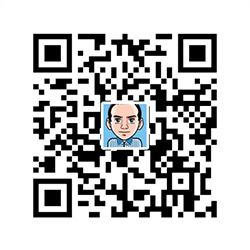
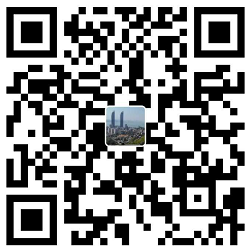
更换打赏二维码

diff --git a/_layouts/post.html b/_layouts/post.html
@@ -32,7 +32,7 @@ layout: default
 
 </div>
 
-<iframe src="https://{{enforce_ssl}}/simple/" style="overflow-x:hidden;overflow-y:hidden; border:0xp none #fff; min-height:240px; width:100%;"  frameborder="0" scrolling="no"></iframe>
+<iframe src="https://tzou24.github.io/simple/" style="overflow-x:hidden;overflow-y:hidden; border:0xp none #fff; min-height:240px; width:100%;"  frameborder="0" scrolling="no"></iframe>
 
 <noscript>Please enable JavaScript to view the comment form powered by <a href="https://commentit.io/">Comm(ent|it)</a></noscript>
 <div id="commentit"></div>

diff --git a/simple/index.html b/simple/index.html
@@ -17,10 +17,10 @@
 		<li id="AliPay">AliPay</li>
 		<li id="WeChat">WeChat</li>
 	</ul>
-	<div id="QRBox" class="pos-f left-100">
+	<!-- <div id="QRBox" class="pos-f left-100">
 		<div id="MainBox"></div>
-	</div>
+	</div> -->
 	<!-- Bitcoin 账号 -->
-	<input id="btc-key" type="text" value="3QboL2k5HfKjKDrEYtQAKubWCjx9CX7i8f" readonly="readonly">
+	<!-- <input id="btc-key" type="text" value="3QboL2k5HfKjKDrEYtQAKubWCjx9CX7i8f" readonly="readonly"> -->
 </body>
 </html>

diff --git a/simple/style.css b/simple/style.css
@@ -60,13 +60,13 @@ a{
 	background-color: #fff;
 	border: 1px solid #ddd;
 	border-radius: 6px;
-	width: 299px;
+	width: 300px;
 	height: 28px;
 	float: left;
 	z-index: 1;
 }
 #donateBox li {
-	width: 74px;
+	width: 150px;
 	float: left;
 	text-align: center;
 	border-left: 1px solid #ddd;

diff --git a/b_about.md b/b_about.md
@@ -7,20 +7,11 @@ permalink: /about/
 
 ***
 
-这里是 Wentasy 的个人站点。
+这里是 abina 的随想录。
 
-目前就职于三七互娱，担任 DBA。
 
-热爱 Google，热爱互联网，热爱科技。推崇逻辑和理性，用数据说话，用理工科思维理解世界。
-
-懂点音乐，热爱古典、摇滚与民谣。爱好阅读，涉猎广泛，爱实体书胜过 Kindle。
-
-对设计感兴趣，喜欢简洁。追求高品质生活，喜欢提升幸福感的利器。
-
-个人公众号：
-
-* 「温国兵」（微信号：**robinwenio**）
-* 「区块链技术指北」（微信号：**BlockchainAge**）
+* 「邹耀斌」（微信号：**robinwenio**）
+* 「个人公众号」（微信号：**BlockchainAge**）
 
 建议用 RSS 订阅本博客。一方面，迄今为止，还找不到比 RSS 更优雅的互联网阅读方式；另一方面，公众号的各种限制违背了互联网的初衷。
 
